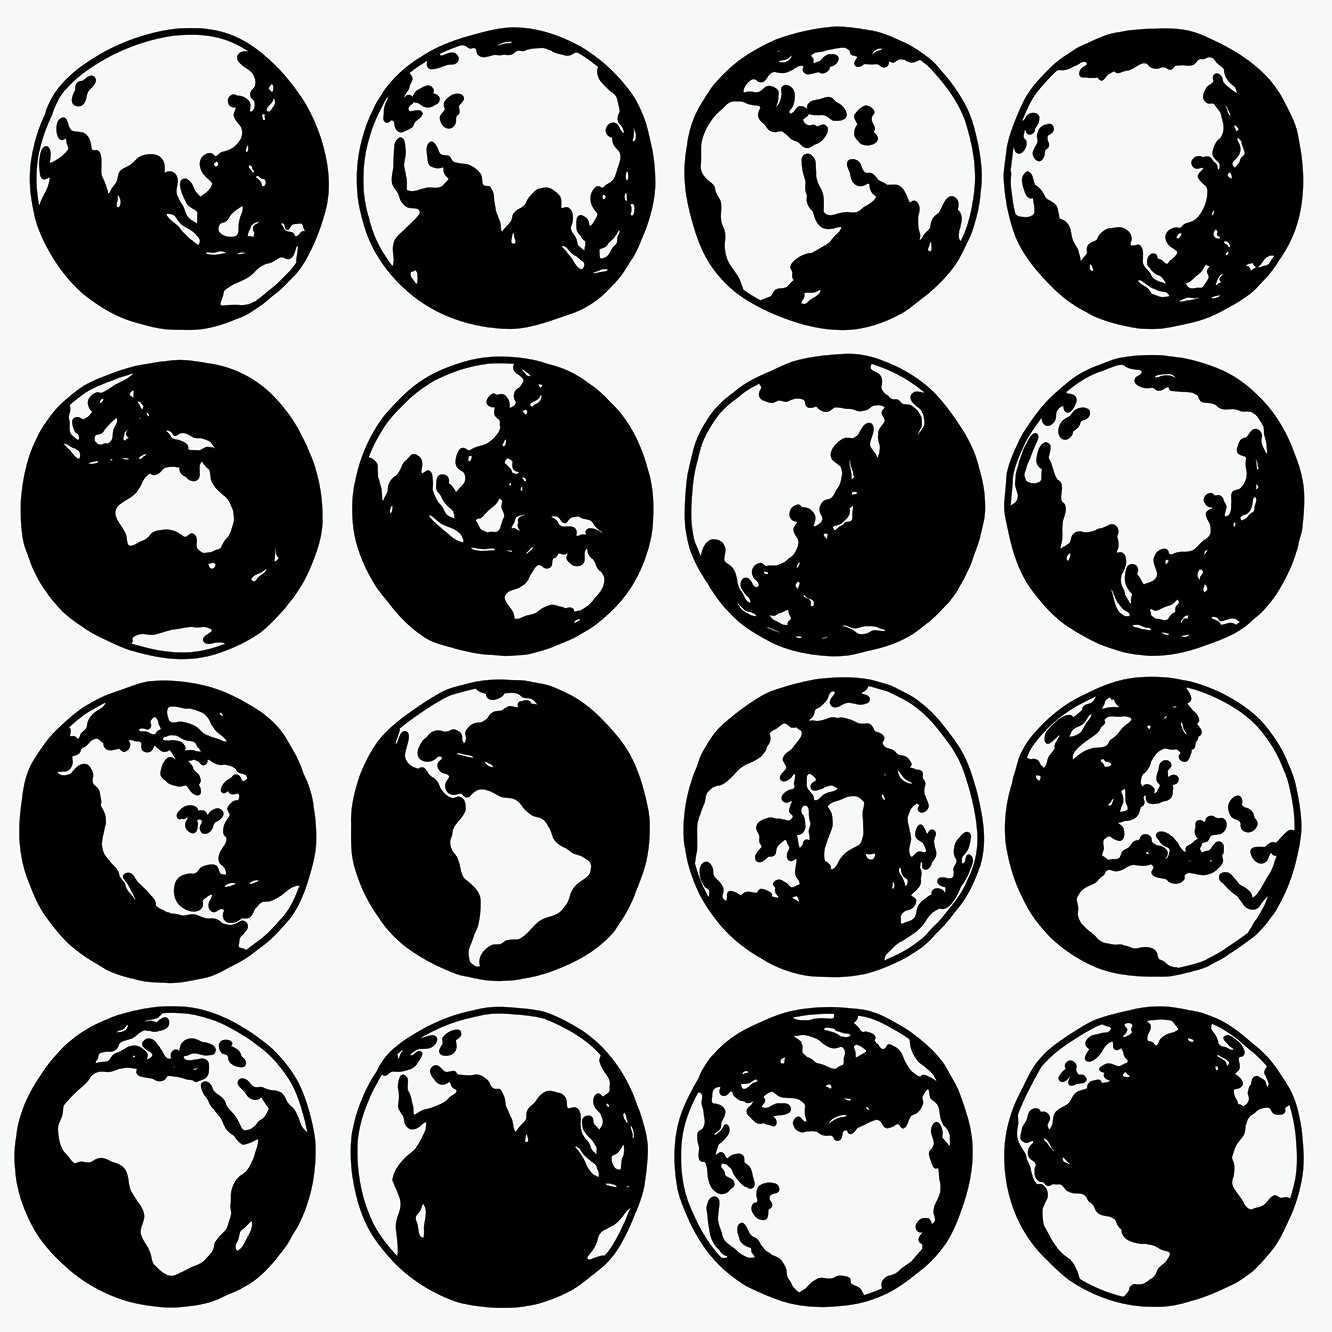
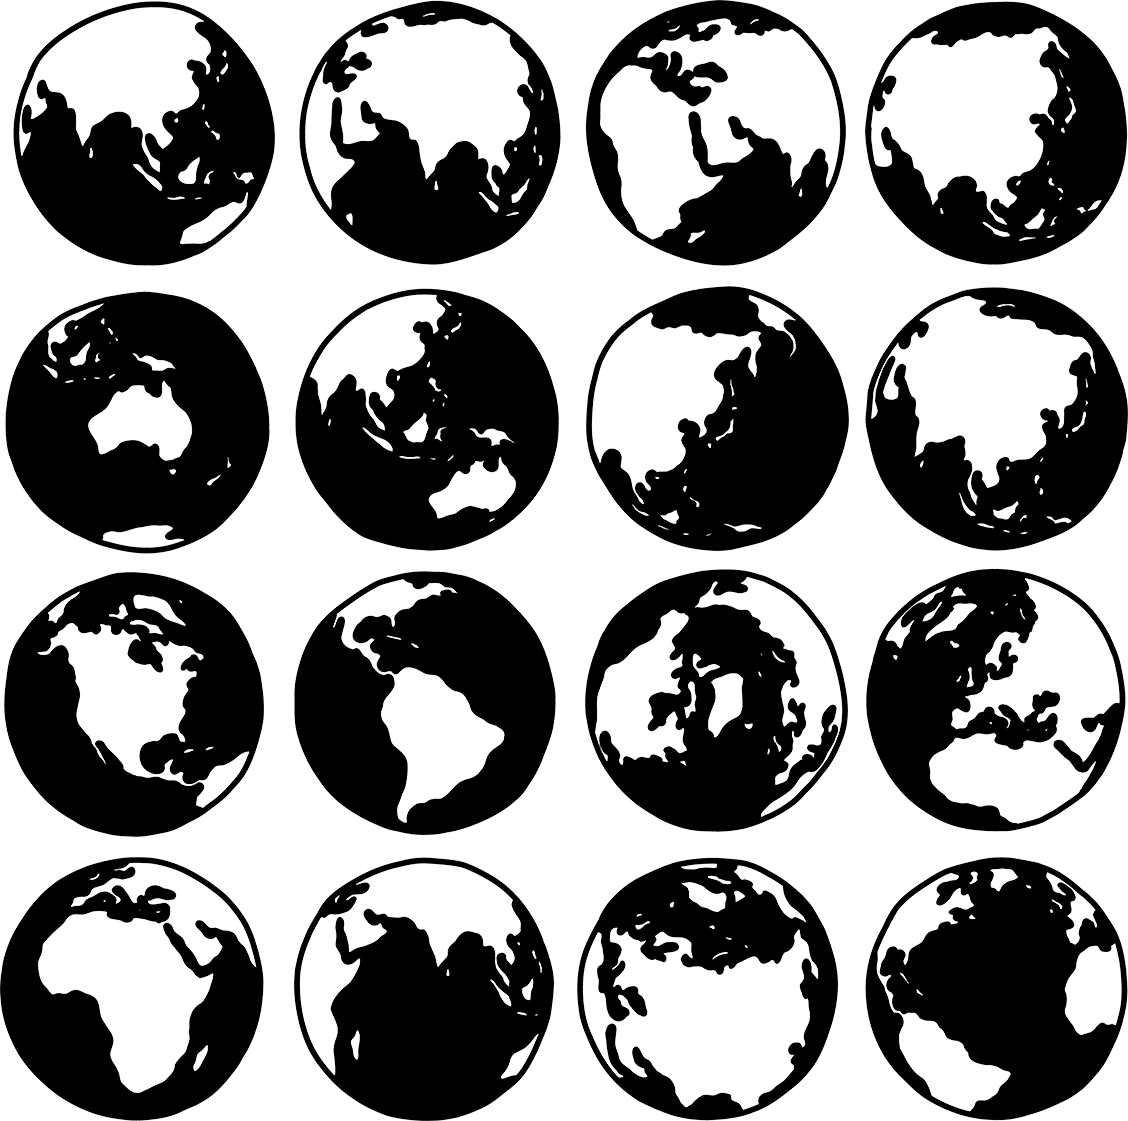
update image

diff --git a/apiapp/templates/index.html b/apiapp/templates/index.html
@@ -12,7 +12,7 @@
       </div>
 
       <div class="container">
-        <img src="{{ url_for('static',filename='assets/img/planets.png') }}">
+        <img height="400px" src="{{ url_for('static',filename='assets/img/planets.png') }}">
       </div>
   <div class='container'>
     <div class="col-md-4 mx-auto mt-2">
